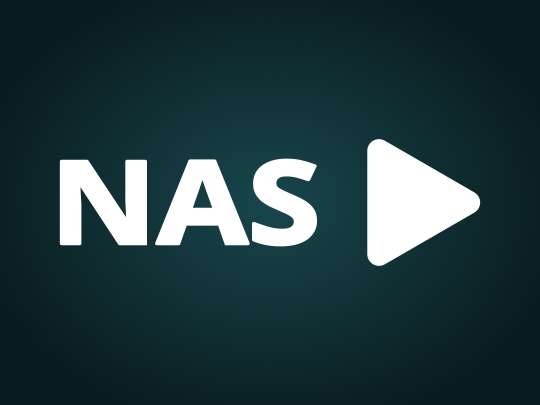
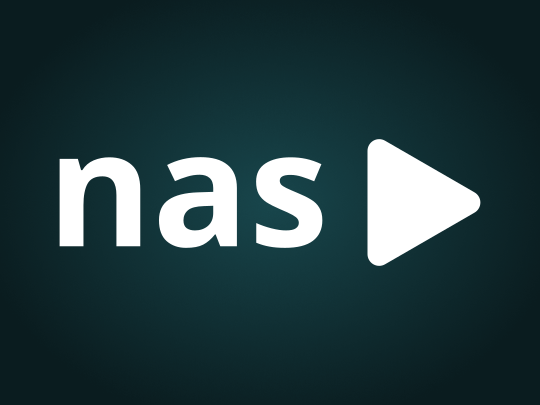
renamed lowercase updated artwork took screenshots

diff --git a/README.md b/README.md
@@ -1,6 +1,6 @@
-# NASplay
+# nasplay
 ### *Description*
-NASplay is a minimalist [Roku](https://www.roku.com/) app similar to [Plex](https://www.plex.tv/) or [Jellyfin](https://jellyfin.org/) that allows you to play content from your local media server. This repository hosts both the Roku app as well as a containerized backend framework for delivering your content. For testing and development on Roku see [how to activate developer mode](https://developer.roku.com/docs/developer-program/getting-started/developer-setup.md) and the [Visual Studio Brightscript Extension](https://marketplace.visualstudio.com/items?itemName=RokuCommunity.brightscript) for debugging.
+nasplay is a minimalist [Roku](https://www.roku.com/) app similar to [Plex](https://www.plex.tv/) or [Jellyfin](https://jellyfin.org/) that allows you to play content from your local media server. This repository hosts both the Roku app as well as a containerized backend framework for delivering your content. For testing and development on Roku see [how to activate developer mode](https://developer.roku.com/docs/developer-program/getting-started/developer-setup.md) and the [Visual Studio Brightscript Extension](https://marketplace.visualstudio.com/items?itemName=RokuCommunity.brightscript) for debugging.
 ## Roku app
 ### *Configuration*
 On the main menu, you can set your media server's IP address and port (default 8088). For example: ```http://192.168.1.2:8088```
